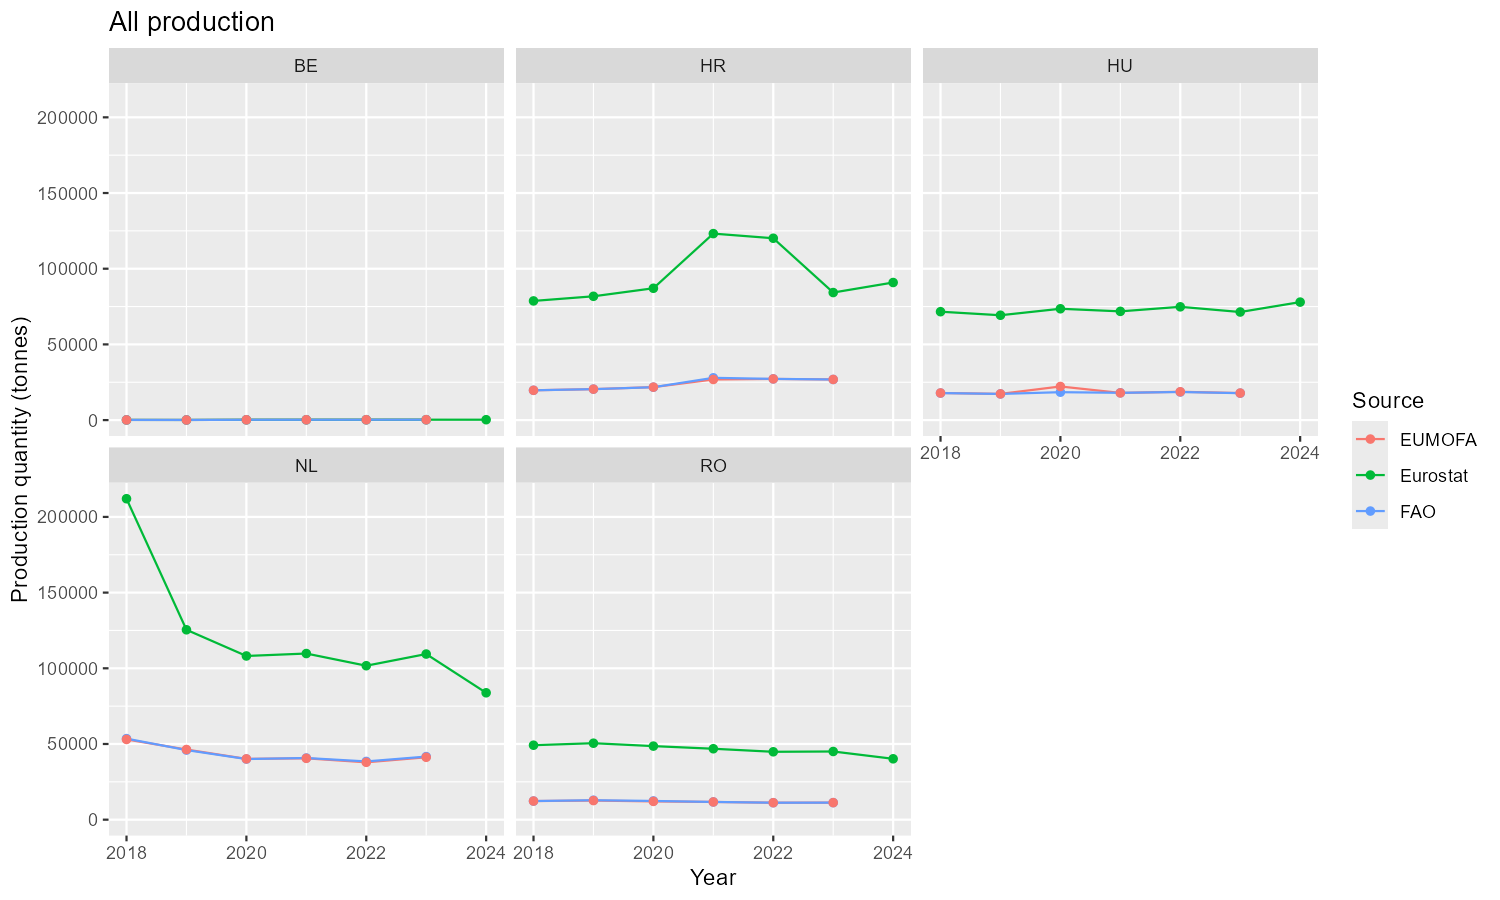
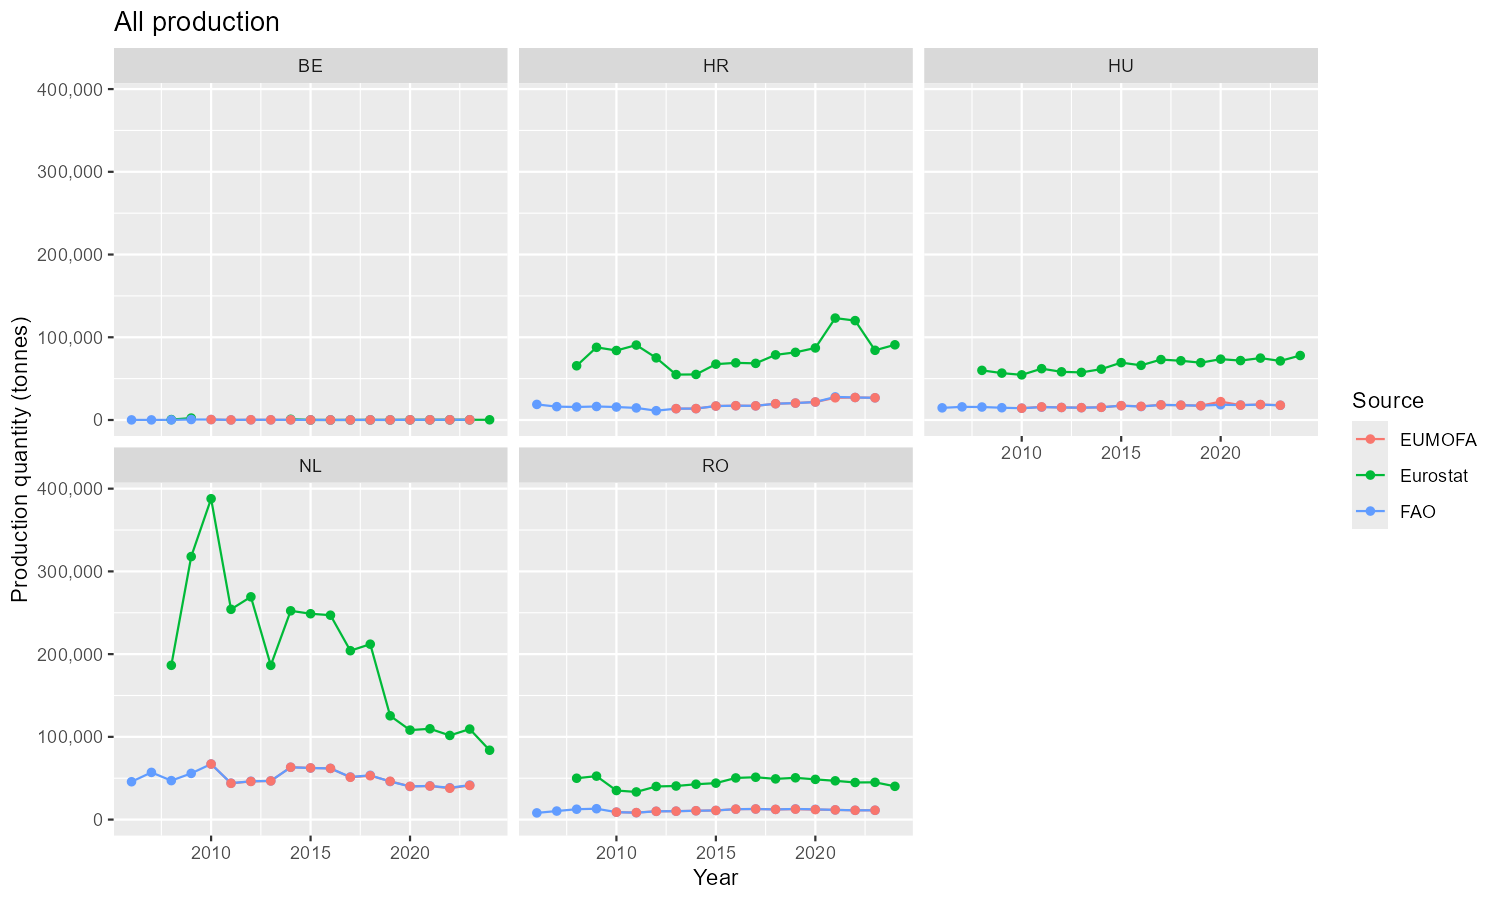
Improve comparison plot overviews and defaults

diff --git a/README.md b/README.md
@@ -52,6 +52,22 @@ Refresh when a new annual release is published; do not automate dashboard scrapi
 
 Normalized snapshots are excluded from Git. Summary and diagnostic files are regenerated by complete runs.
 
+### Plot Defaults
+
+The default comparison window is the latest 20 completed calendar years (2006–2025 when run in 2026), configured by `years_target` in `main-script.R`. Sources may have shorter coverage or publication delays; missing observations are not filled in. Quantity and value plots use comma-separated y-axis numbers rather than scientific notation.
+
+General comparison plots sum reported production across all available countries for each year and source, separately for each category (for example, `mollusca_all`). The default `comparison_countries = NULL` includes all countries; set it to a vector of country codes to restrict coverage. Source totals reflect each dataset's own country coverage, not a common-country subset. Missing country values are omitted from sums, but groups with no reported values remain missing, not zero. Country-level rows remain in the comparison tables.
+
+To inspect individual countries, call `build_comparison_plot(comparison_table, measure, segment, facet_countries = TRUE)` using a table from `pipeline_result$exports$comparison_tables`; the default is `FALSE` for overview plots.
+
+Low-anthropic overview plots label panels by category, without repeating the strict/broad mode. Both modes remain in the exported tables and retain separate series:
+
+- **Strict**: `mussels_bivalves` and `seaweed_algae`, selected using source species/commodity names; FAO aquatic plants also use the `PLANTAE AQUATICAE` major group.
+- **Broad**: `mollusca_all` and `aquatic_plants_all`, using the full FAO `MOLLUSCA` and `PLANTAE AQUATICAE` major groups and matching EUMOFA names. Eurostat reuses the strict matches under these broader category names, so broad coverage is not necessarily wider for every source.
+- **Optional broad category**: `crustacea_subset` includes name-matched crustaceans only when `include_crustacea_subset` is enabled (off by default).
+
+Strict and broad categories overlap and should not be added together.
+
 ## Tests
 
 ```powershell
